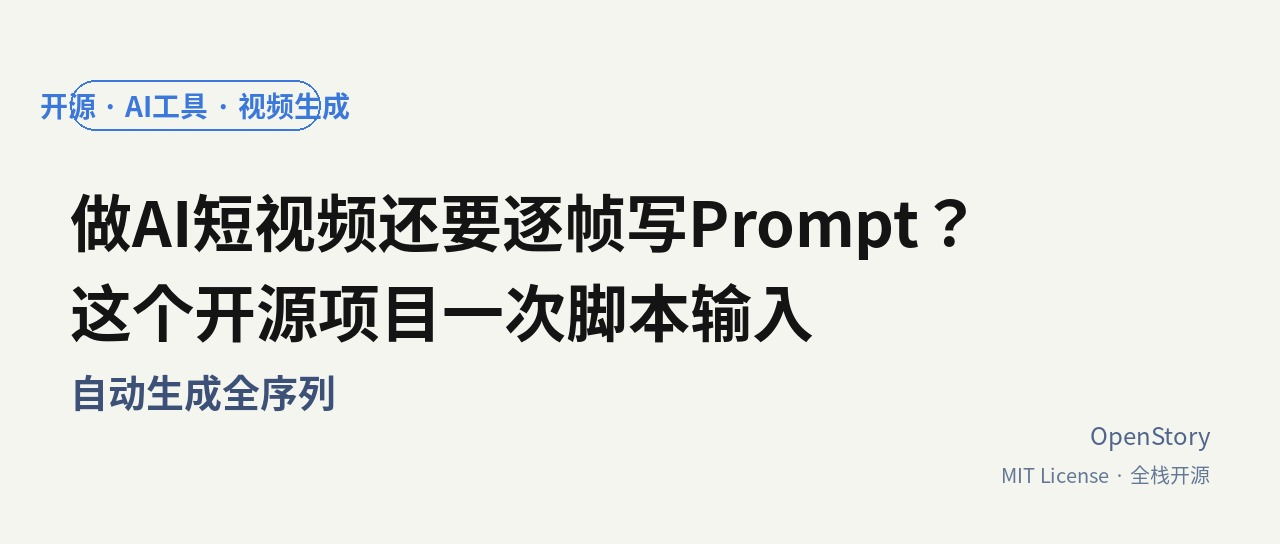
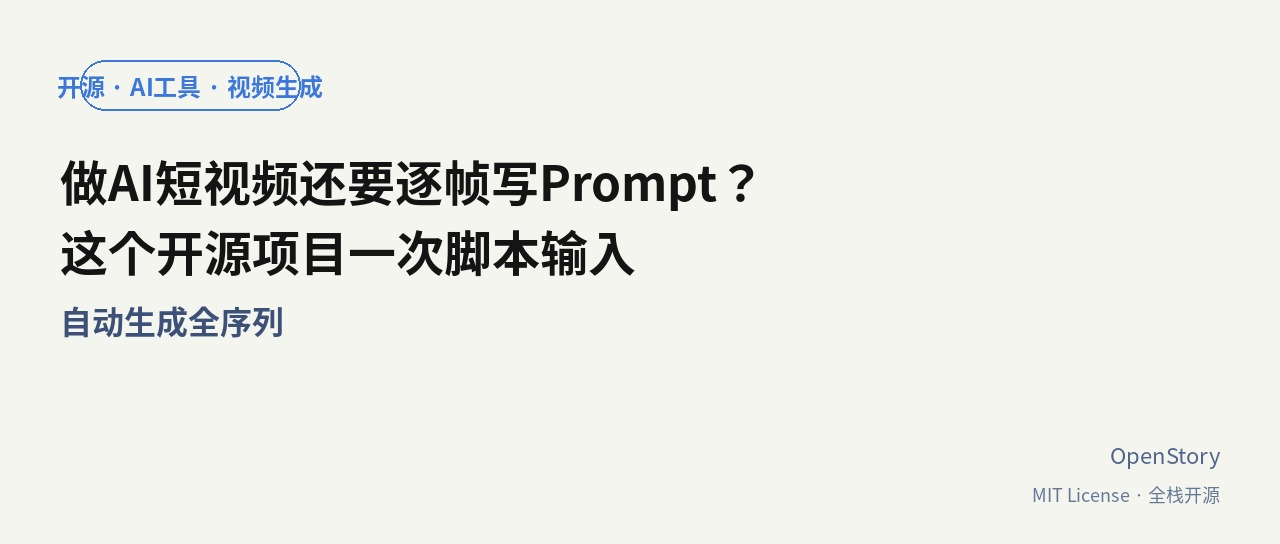
Update OpenStory推广教程：修复封面文字超界，添加正文3张配图，并重新发布公众号草稿

diff --git a/content-ops/openstory/gen_images.py b/content-ops/openstory/gen_images.py
@@ -109,14 +109,14 @@ def safe_text(draw, xy, text, font, fill, anchor="lm"):
 
     Common anchor values:
       'lm' = left-middle (left-aligned, v-centered) — ✅ DEFAULT, safe for
-             titles, card labels, lists, most text. x is the left edge.
+               titles, card labels, lists, most text. x is the left edge.
       'mm' = middle-center (centered both axes) — good for badges, tags,
-             centered headings where you know the exact center position.
-             ⚠ x is TEXT CENTER, not left edge — use with caution.
+               centered headings where you know the exact center position.
+               ⚠ x is TEXT CENTER, not left edge — use with caution.
       'rm' = right-middle (right-aligned, v-centered) — good for metadata,
-             dates, numbers. x is the right edge.
+               dates, numbers. x is the right edge.
       'mt' = middle-top (centered, top-aligned) — good for headings above
-             content blocks.
+               content blocks.
     """
     draw.text(xy, text, font=font, fill=fill, anchor=anchor)
 
@@ -133,7 +133,6 @@ def save(img, name):
 # ═══════════════════════════════════════════════════════════════════
 def rounded_rect(draw, xy, radius, fill, outline=None, width=0):
     x1, y1, x2, y2 = xy
-    d = radius * 2
     draw.rounded_rectangle(xy, radius=radius, fill=fill, outline=outline, width=width)
 
 # ═══════════════════════════════════════════════════════════════════
@@ -195,23 +194,23 @@ def draw_cover_wechat():
     d = ImageDraw.Draw(img)
 
     # Top tag
-    tag_font = resolve_font_bold(28)
-    d.rounded_rectangle([70, 80, 320, 130], radius=25, outline=(60, 120, 220), width=2)
-    safe_text(d, (195, 105), "开源 · AI工具 · 视频生成", tag_font, (60, 120, 220), anchor="mm")
+    tag_font = resolve_font_bold(24)
+    d.rounded_rectangle([80, 60, 300, 110], radius=25, outline=(60, 120, 220), width=2)
+    safe_text(d, (190, 85), "开源 · AI工具 · 视频生成", tag_font, (60, 120, 220), anchor="mm")
 
-    # Main title — split into 2 lines for visual rhythm
-    title_font = resolve_font_bold(62)
-    sub_font = resolve_font_bold(38)
+    # Main title — split into 3 lines for visual rhythm
+    title_font = resolve_font_bold(48)
+    sub_font = resolve_font_bold(32)
 
-    safe_text(d, (70, 220), "做AI短视频还要逐帧写Prompt？", title_font, (20, 20, 20))
-    safe_text(d, (70, 310), "这个开源项目一次脚本输入", title_font, (20, 20, 20))
-    safe_text(d, (70, 390), "自动生成全序列", sub_font, (60, 80, 120))
+    safe_text(d, (60, 180), "做AI短视频还要逐帧写Prompt？", title_font, (20, 20, 20))
+    safe_text(d, (60, 250), "这个开源项目一次脚本输入", title_font, (20, 20, 20))
+    safe_text(d, (60, 320), "自动生成全序列", sub_font, (60, 80, 120))
 
     # Bottom-right meta
-    meta_font = resolve_font(24)
-    small = resolve_font(20)
-    safe_text(d, (W - 70, H - 110), "OpenStory", meta_font, (80, 100, 140), anchor="rm")
-    safe_text(d, (W - 70, H - 70), "MIT License · 全栈开源", small, (100, 120, 150), anchor="rm")
+    meta_font = resolve_font(22)
+    small = resolve_font(18)
+    safe_text(d, (W - 60, H - 90), "OpenStory", meta_font, (80, 100, 140), anchor="rm")
+    safe_text(d, (W - 60, H - 50), "MIT License · 全栈开源", small, (100, 120, 150), anchor="rm")
     return img
 
 def draw_cover_zhihu():
@@ -275,6 +274,67 @@ def draw_cover_zhihu():
     safe_text(d, (W - 70, H - 40), "MIT License", meta_font, (120, 130, 160), anchor="rm")
     return img
 
+def draw_workflow_comparison():
+    """1200×750 传统流程 vs OpenStory 对比图"""
+    W, H = 1200, 750
+    img = Image.new("RGB", (W, H), (247, 248, 251))
+    d = ImageDraw.Draw(img)
+
+    # Title
+    title_font = resolve_font_bold(36)
+    safe_text(d, (W//2, 50), "传统AI短视频创作 vs OpenStory 自动流程", title_font, (20, 30, 60), anchor="mm")
+
+    # Two columns
+    card_w = 520
+    card_h = 580
+    gap = 40
+    left_x = (W - card_w * 2 - gap) // 2
+    y0 = 100
+
+    # Left column: 传统流程
+    d.rounded_rectangle([left_x, y0, left_x + card_w, y0 + card_h], radius=12, fill=(255, 255, 255), outline=(240, 100, 100), width=3)
+    header_font = resolve_font_bold(28)
+    safe_text(d, (left_x + card_w//2, y0 + 35), "传统流程", header_font, (240, 100, 100), anchor="mm")
+
+    step_font = resolve_font_bold(22)
+    desc_font = resolve_font(18)
+    steps = [
+        ("1. 手动拆分场景", "写完脚本逐段拆分\n每个场景都要手动操作"),
+        ("2. 逐帧写Prompt", "每个场景重复描述\n角色/场景/风格\n容易遗漏信息"),
+        ("3. 逐个生成", "一个一个点击生成\n等待时间长\n容易出错"),
+        ("4. 保持风格一致性", "反复提醒AI同一个角色\n一次次重绘\n还是经常脸崩"),
+        ("5. 导出拼接", "全部下载后\n导入剪辑软件\n手动拼接"),
+    ]
+    step_y = y0 + 70
+    step_gap = 92
+    for i, (title, desc) in enumerate(steps):
+        safe_text(d, (left_x + 30, step_y + i * step_gap), title, step_font, (20, 30, 60))
+        for j, line in enumerate(desc.split("\n")):
+            safe_text(d, (left_x + 35, step_y + i * step_gap + 28 + j * 22), line, desc_font, (80, 80, 80))
+
+    # Right column: OpenStory
+    right_x = left_x + card_w + gap
+    d.rounded_rectangle([right_x, y0, right_x + card_w, y0 + card_h], radius=12, fill=(255, 255, 255), outline=(60, 180, 120), width=3)
+    safe_text(d, (right_x + card_w//2, y0 + 35), "OpenStory", header_font, (60, 180, 120), anchor="mm")
+
+    steps = [
+        ("1. 输入完整脚本", "复制粘贴整个脚本\n一次提交完事"),
+        ("2. AI自动拆解", "LLM自动拆分场景\n推荐机位/情绪/运镜"),
+        ("3. 批量生成", "一键生成所有场景\n自动保持风格"),
+        ("4. 自动连续性", "角色/场景/色调自动传递\n保证从头到尾一致\n不用反复提醒AI"),
+        ("5. 一键导出成片", "浏览器直接导出MP4\n不用下载再剪辑"),
+    ]
+    for i, (title, desc) in enumerate(steps):
+        safe_text(d, (right_x + 30, step_y + i * step_gap), title, step_font, (20, 30, 60))
+        for j, line in enumerate(desc.split("\n")):
+            safe_text(d, (right_x + 35, step_y + i * step_gap + 28 + j * 22), line, desc_font, (80, 80, 80))
+
+    # Footer
+    footer_font = resolve_font(20)
+    safe_text(d, (W//2, H - 30), "痛点解决：减少80%重复劳动，保证风格一致性", footer_font, (60, 60, 60), anchor="mm")
+
+    return img
+
 # ── Image specs registry ────────────────────────────────────────────
 IMAGE_SPECS = [
     # (filename, width, height, draw_fn)
@@ -284,7 +344,7 @@ IMAGE_SPECS = [
     ("cover-wechat.jpg", 1280, 544, draw_cover_wechat),
     ("cover-zhihu.png", 1600, 900, draw_cover_zhihu),
     # Add body diagrams below:
-    # ("01-architecture.png", 1200, 780, draw_architecture),
+    ("01-workflow-comparison.png", 1200, 600, draw_workflow_comparison),
 ]
 
 # ═══════════════════════════════════════════════════════════════════
